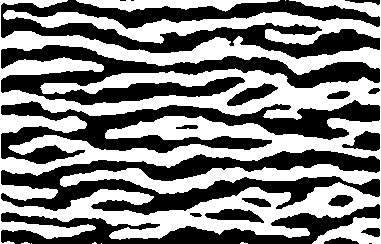
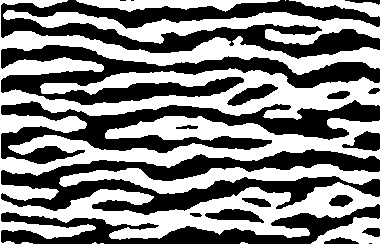
更新：加入缩放功能

diff --git a/ThiningHelper/slider_threshold.cpp b/ThiningHelper/slider_threshold.cpp
@@ -53,6 +53,7 @@ void slider_threshold::setThresholdLineEditValue(int value)
 
 	cv::threshold(src, src_thresholded, pos, 1, cv::THRESH_BINARY);
 	src_thresholded_mapped = src_thresholded * 255;
+	cv::namedWindow(WINDOW_NAME, CV_WINDOW_NORMAL);
 	cv::imshow(WINDOW_NAME, src_thresholded_mapped);
 //	cv::imwrite("src_thresholded.jpg",src_thresholded);
 }

diff --git a/ThiningHelper/thininghelper.cpp b/ThiningHelper/thininghelper.cpp
@@ -90,6 +90,7 @@ void ThiningHelper::on_pushButton_loadImage_clicked()
 	std::string filename_cv = code->fromUnicode(filename).data();
 	//std::string filename_cv = filename.toStdString();
 	cv::Mat src = cv::imread(filename_cv, cv::IMREAD_GRAYSCALE);
+	cv::namedWindow(WINDOW_NAME, CV_WINDOW_NORMAL);
 	cv::imshow(WINDOW_NAME, src);
 }
 
